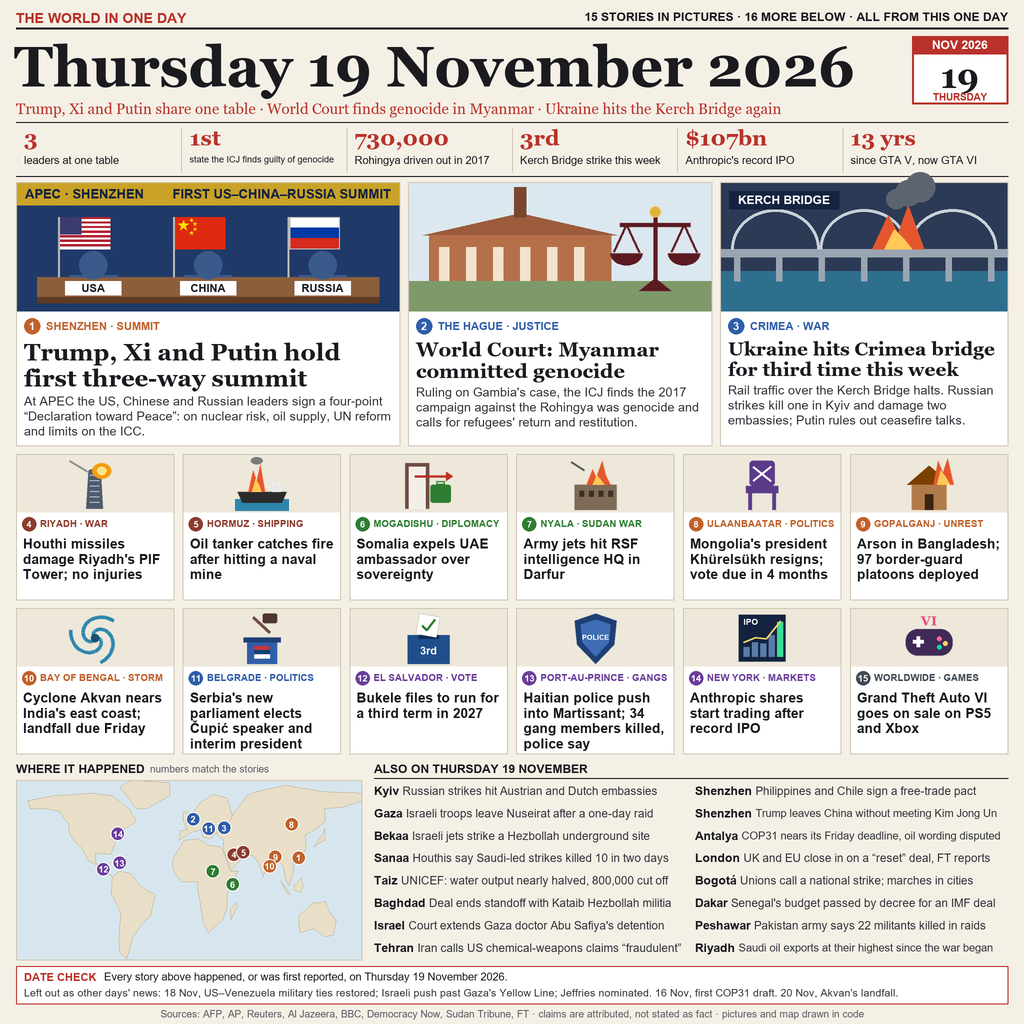
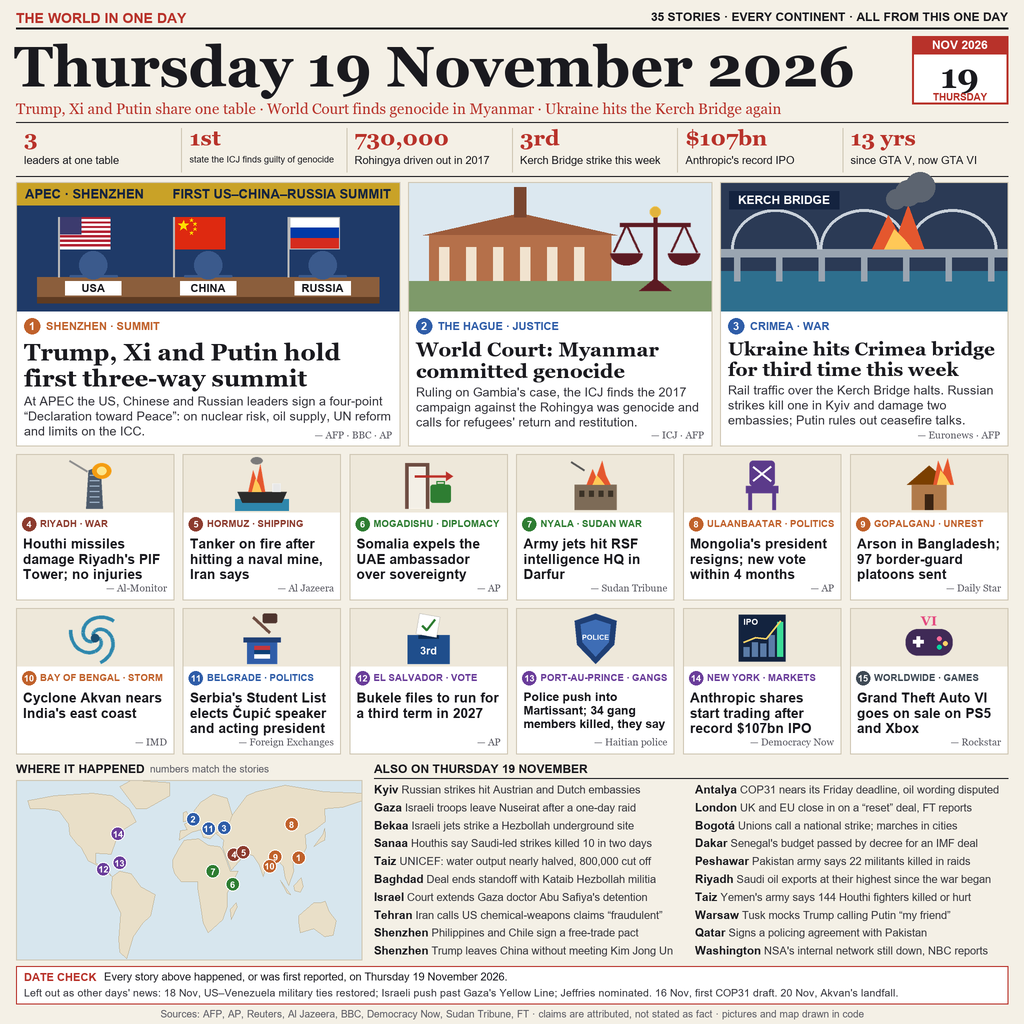
v3: sources on every story, 35 stories

diff --git a/tools/make_image.py b/tools/make_image.py
@@ -335,7 +335,7 @@ def draw_map(x, y, w, h, pins):
 # =====================================================================
 # header
 d.text(s(16, 10), "THE WORLD IN ONE DAY", font=font("arialbd.ttf", 14), fill=RED)
-d.text(s(W - 16, 10), "15 STORIES IN PICTURES · 16 MORE BELOW · ALL FROM THIS ONE DAY",
+d.text(s(W - 16, 10), "35 STORIES · EVERY CONTINENT · ALL FROM THIS ONE DAY",
        font=font("arialbd.ttf", 12), fill=INK, anchor="ra")
 d.line(s(16, 28, W - 16, 28), fill=INK, width=2 * S)
 d.text(s(14, 34), "Thursday 19 November 2026", font=font("georgiab.ttf", 57), fill=INK)
@@ -392,24 +392,26 @@ for n, (x, w, scene, tag, region, head, body) in enumerate(LEAD, start=1):
     d.text(s(x + 30, ty + 8), tag, font=font("arialbd.ttf", 11), fill=REGION[region], anchor="lm")
     yy = text_block(x + 8, ty + 20, head, "georgiab.ttf", 24 if n == 1 else 20, w - 16, 2, leading=1.08)
     text_block(x + 8, yy + 4, body, "arial.ttf", 12.5, w - 16, 4, fill="#33333A", leading=1.2)
+    src = ["AFP · BBC · AP", "ICJ · AFP", "Euronews · AFP"][n - 1]
+    d.text(s(x + w - 8, 441), "— " + src, font=font("georgia.ttf", 10), fill=MUTED, anchor="rd")
 
 # grid of twelve more stories
 GRID = [
-    (icon_tower_missile, "RIYADH · WAR", "MIDDLE EAST", "Houthi missiles damage Riyadh's PIF Tower; no injuries"),
-    (icon_tanker_fire, "HORMUZ · SHIPPING", "MIDDLE EAST", "Oil tanker catches fire after hitting a naval mine"),
-    (icon_expel, "MOGADISHU · DIPLOMACY", "AFRICA", "Somalia expels UAE ambassador over sovereignty"),
-    (icon_strike_building, "NYALA · SUDAN WAR", "AFRICA", "Army jets hit RSF intelligence HQ in Darfur"),
-    (icon_empty_chair, "ULAANBAATAR · POLITICS", "ASIA", "Mongolia's president Khürelsükh resigns; vote due in 4 months"),
-    (icon_house_fire, "GOPALGANJ · UNREST", "ASIA", "Arson in Bangladesh; 97 border-guard platoons deployed"),
-    (icon_cyclone, "BAY OF BENGAL · STORM", "ASIA", "Cyclone Akvan nears India's east coast; landfall due Friday"),
-    (icon_gavel_podium, "BELGRADE · POLITICS", "EUROPE", "Serbia's new parliament elects Čupić speaker and interim president"),
-    (icon_ballot, "EL SALVADOR · VOTE", "AMERICAS", "Bukele files to run for a third term in 2027"),
-    (icon_shield, "PORT-AU-PRINCE · GANGS", "AMERICAS", "Haitian police push into Martissant; 34 gang members killed, police say"),
-    (icon_ipo_chart, "NEW YORK · MARKETS", "AMERICAS", "Anthropic shares start trading after record IPO"),
-    (icon_gamepad, "WORLDWIDE · GAMES", "WORLDWIDE", "Grand Theft Auto VI goes on sale on PS5 and Xbox"),
+    (icon_tower_missile, "RIYADH · WAR", "MIDDLE EAST", "Houthi missiles damage Riyadh's PIF Tower; no injuries", "Al-Monitor"),
+    (icon_tanker_fire, "HORMUZ · SHIPPING", "MIDDLE EAST", "Tanker on fire after hitting a naval mine, Iran says", "Al Jazeera"),
+    (icon_expel, "MOGADISHU · DIPLOMACY", "AFRICA", "Somalia expels the UAE ambassador over sovereignty", "AP"),
+    (icon_strike_building, "NYALA · SUDAN WAR", "AFRICA", "Army jets hit RSF intelligence HQ in Darfur", "Sudan Tribune"),
+    (icon_empty_chair, "ULAANBAATAR · POLITICS", "ASIA", "Mongolia's president resigns; new vote within 4 months", "AP"),
+    (icon_house_fire, "GOPALGANJ · UNREST", "ASIA", "Arson in Bangladesh; 97 border-guard platoons sent", "Daily Star"),
+    (icon_cyclone, "BAY OF BENGAL · STORM", "ASIA", "Cyclone Akvan nears India's east coast", "IMD"),
+    (icon_gavel_podium, "BELGRADE · POLITICS", "EUROPE", "Serbia's Student List elects Čupić speaker and acting president", "Foreign Exchanges"),
+    (icon_ballot, "EL SALVADOR · VOTE", "AMERICAS", "Bukele files to run for a third term in 2027", "AP"),
+    (icon_shield, "PORT-AU-PRINCE · GANGS", "AMERICAS", "Police push into Martissant; 34 gang members killed, they say", "Haitian police"),
+    (icon_ipo_chart, "NEW YORK · MARKETS", "AMERICAS", "Anthropic shares start trading after record $107bn IPO", "Democracy Now"),
+    (icon_gamepad, "WORLDWIDE · GAMES", "WORLDWIDE", "Grand Theft Auto VI goes on sale on PS5 and Xbox", "Rockstar"),
 ]
 GW, GH, GG = 158, 146, 8.8
-for i, (icon, tag, region, head) in enumerate(GRID):
+for i, (icon, tag, region, head, src) in enumerate(GRID):
     col, row = i % 6, i // 6
     x, y = 16 + col * (GW + GG), 454 + row * (GH + 8)
     n = i + 4
@@ -420,7 +422,8 @@ for i, (icon, tag, region, head) in enumerate(GRID):
     d.ellipse(s(x + 6, y + 63, x + 20, y + 77), fill=colour)
     d.text(s(x + 13, y + 70), str(n), font=font("arialbd.ttf", 9), fill="white", anchor="mm")
     text_block(x + 24, y + 64, tag, "arialbd.ttf", 9.5, GW - 28, 1, fill=colour)
-    text_block(x + 7, y + 82, head, "arialbd.ttf", 13.5, GW - 13, 4, leading=1.13)
+    text_block(x + 7, y + 82, head, "arialbd.ttf", 13.5, GW - 13, 3, leading=1.13, min_size=12)
+    d.text(s(x + GW - 7, y + GH - 6), "— " + src, font=font("georgia.ttf", 10), fill=MUTED, anchor="rd")
 
 # bottom: map and the rest of the day
 BY = 762
@@ -453,18 +456,22 @@ ALSO = [
     ("Dakar", "Senegal's budget passed by decree for an IMF deal"),
     ("Peshawar", "Pakistan army says 22 militants killed in raids"),
     ("Riyadh", "Saudi oil exports at their highest since the war began"),
+    ("Taiz", "Yemen's army says 144 Houthi fighters killed or hurt"),
+    ("Warsaw", "Tusk mocks Trump calling Putin “my friend”"),
+    ("Qatar", "Signs a policing agreement with Pakistan"),
+    ("Washington", "NSA's internal network still down, NBC reports"),
 ]
 LX0 = 374
 d.text(s(LX0, BY), "ALSO ON THURSDAY 19 NOVEMBER", font=font("arialbd.ttf", 12), fill=INK)
 d.line(s(LX0, BY + 16, W - 16, BY + 16), fill=INK, width=S)
 colw = (W - 16 - LX0) / 2
 for i, (place, what) in enumerate(ALSO):
-    col, row = i // 8, i % 8
-    x, y = LX0 + col * (colw + 4), BY + 22 + row * 22.4
-    pf = font("arialbd.ttf", 12)
+    col, row = i // 10, i % 10
+    x, y = LX0 + col * (colw + 4), BY + 21 + row * 17.9
+    pf = font("arialbd.ttf", 11.5)
     d.text(s(x, y), place, font=pf, fill=INK)
     pw = d.textlength(place + " ", font=pf) / S
-    text_block(x + pw, y + 0.5, what, "arial.ttf", 11.5, colw - pw - 6, 1, fill="#33333A")
+    text_block(x + pw, y + 0.5, what, "arial.ttf", 11, colw - pw - 6, 1, fill="#33333A", min_size=9.5)
 
 # date check
 DY = 966
